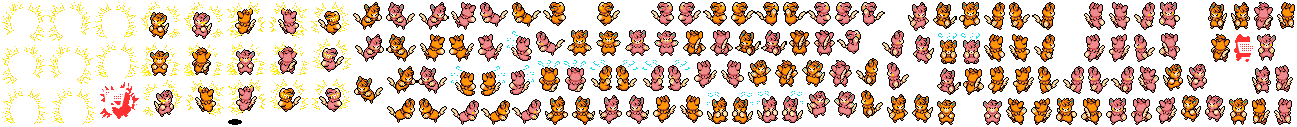
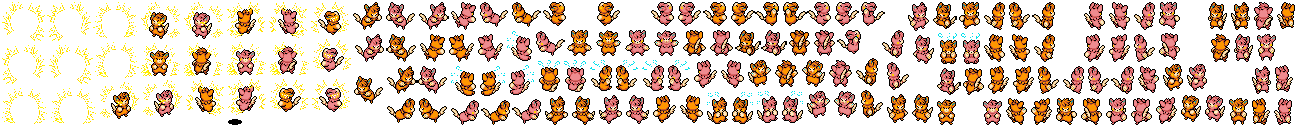
fixed sprites

Changed region(s): [[0.0617, 0.7323, 0.1234, 0.9213], [0.9252, 0.2835, 0.9869, 0.4724], [0.0617, 0.6614, 0.1234, 0.7087]]

diff --git a/app/public/dist/client/sw.js b/app/public/dist/client/sw.js
@@ -1,7 +1,7 @@
 /* Change this cache name every time you want to force players 
   to invalidate their cache and download all assets again */
 
-const CACHE_NAME = "CACHE v5.3.0.278"
+const CACHE_NAME = "CACHE v5.3.0.280"
 
 // Cache-first strategy
 const cacheFirst = (event) => {
